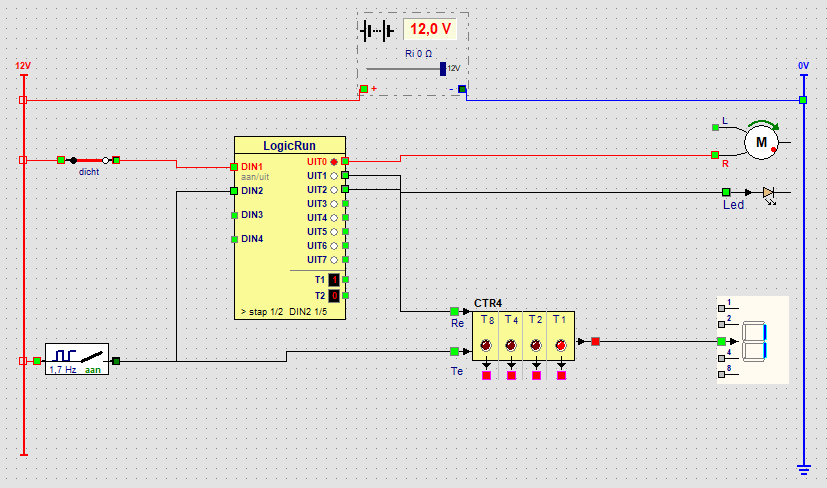
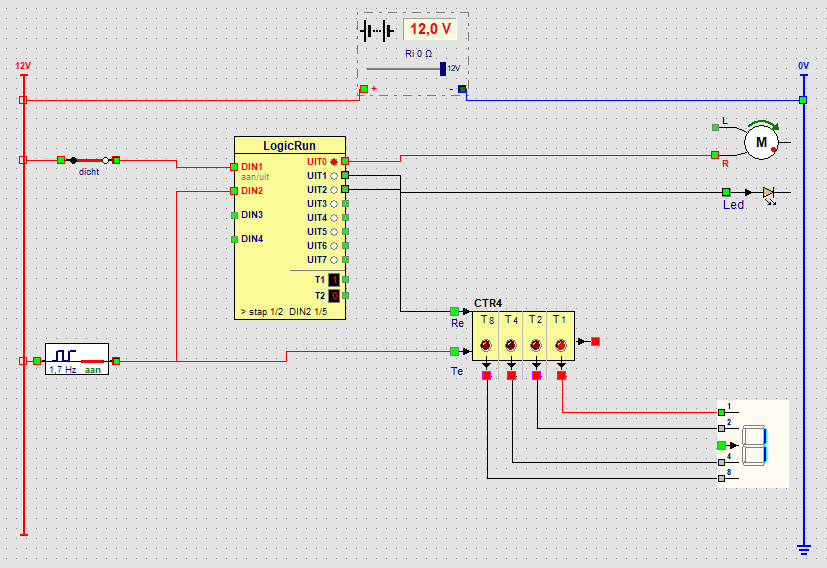
Les 14-15: display over vier draden (1-2-4-8)
- Les 14: teller T8, T4, T2, T1 naar de ingangen 8, 4, 2, 1 van het display.
- Les 15: UIT0..UIT3 ook naar de ingangen 1, 2, 4, 8 van het display (niet meer via T1).
- Help in 4 talen en afbeeldingen bijgewerkt.

diff --git a/projects/LogicCEF/helpsrc/fr/les15.html b/projects/LogicCEF/helpsrc/fr/les15.html
@@ -18,8 +18,8 @@
       pas 16 vaut 15. Chaque pas dure 1 seconde.</li>
     <li>Quatre <a href="uitvoer.html#led">LED</a> rouges sur <b>UIT0</b> à <b>UIT3</b>. Chaque LED a sa propre valeur&nbsp;:
       UIT0 = <b>1</b>, UIT1 = <b>2</b>, UIT2 = <b>4</b>, UIT3 = <b>8</b>.</li>
-    <li>Un <a href="uitvoer.html#display">afficheur</a> sur <b>T1</b>&nbsp;: il lit UIT0 à UIT3 comme un seul nombre (voir
-      <a href="logicrun.html#displays">Afficheurs</a>).</li>
+    <li>Un <a href="uitvoer.html#display">afficheur</a> avec quatre fils&nbsp;: UIT0, UIT1, UIT2 et UIT3 vont aussi aux entrées <b>1</b>, <b>2</b>,
+      <b>4</b> et <b>8</b> de l&rsquo;afficheur. Il lit les quatre sorties comme un seul nombre.</li>
   </ul>
 
   <h2>Comment fonctionne un nombre binaire ?</h2>

diff --git a/projects/LogicCEF/helpsrc/de/les15.html b/projects/LogicCEF/helpsrc/de/les15.html
@@ -17,8 +17,8 @@
       Schritt 16 ist 15. Jeder Schritt dauert 1 Sekunde.</li>
     <li>Vier rote <a href="uitvoer.html#led">LEDs</a> an <b>UIT0</b> bis <b>UIT3</b>. Jede LED hat ihren eigenen Wert:
       UIT0 = <b>1</b>, UIT1 = <b>2</b>, UIT2 = <b>4</b>, UIT3 = <b>8</b>.</li>
-    <li>Eine <a href="uitvoer.html#display">Anzeige</a> an <b>T1</b>: Sie liest UIT0 bis UIT3 als eine Zahl (siehe
-      <a href="logicrun.html#displays">Anzeigen</a>).</li>
+    <li>Eine <a href="uitvoer.html#display">Anzeige</a> mit vier Drähten: UIT0, UIT1, UIT2 und UIT3 gehen auch zu den Eingängen <b>1</b>, <b>2</b>,
+      <b>4</b> und <b>8</b> der Anzeige. Sie liest die vier Ausgänge als eine Zahl.</li>
   </ul>
 
   <h2>Wie funktioniert eine Binärzahl?</h2>

diff --git a/projects/LogicCEF/helpsrc/nl/les15.html b/projects/LogicCEF/helpsrc/nl/les15.html
@@ -17,8 +17,8 @@
       Elke stap duurt 1 seconde.</li>
     <li>Vier rode <a href="uitvoer.html#led">leds</a> op <b>UIT0</b> tot <b>UIT3</b>. Elke led heeft een eigen
       waarde: UIT0 = <b>1</b>, UIT1 = <b>2</b>, UIT2 = <b>4</b>, UIT3 = <b>8</b>.</li>
-    <li>Een <a href="uitvoer.html#display">display</a> aan <b>T1</b>: dat leest UIT0 tot UIT3 als één getal (zie
-      <a href="logicrun.html#displays">Displays</a>).</li>
+    <li>Een <a href="uitvoer.html#display">display</a> met vier draden: UIT0, UIT1, UIT2 en UIT3 gaan ook naar de ingangen <b>1</b>, <b>2</b>,
+      <b>4</b> en <b>8</b> van het display. Het leest de vier uitgangen als één getal.</li>
   </ul>
 
   <h2>Hoe werkt een binair getal?</h2>

diff --git a/projects/LogicCEF/helpsrc/en/les15.html b/projects/LogicCEF/helpsrc/en/les15.html
@@ -17,8 +17,8 @@
       Each step lasts 1 second.</li>
     <li>Four red <a href="uitvoer.html#led">LEDs</a> on <b>UIT0</b> to <b>UIT3</b>. Each LED has its own value:
       UIT0 = <b>1</b>, UIT1 = <b>2</b>, UIT2 = <b>4</b>, UIT3 = <b>8</b>.</li>
-    <li>A <a href="uitvoer.html#display">display</a> on <b>T1</b>: it reads UIT0 to UIT3 as one number (see
-      <a href="logicrun.html#displays">Displays</a>).</li>
+    <li>A <a href="uitvoer.html#display">display</a> with four wires: UIT0, UIT1, UIT2 and UIT3 also go to the inputs <b>1</b>, <b>2</b>,
+      <b>4</b> and <b>8</b> of the display. It reads the four outputs as one number.</li>
   </ul>
 
   <h2>How does a binary number work?</h2>

diff --git a/projects/LogicCEF/helpsrc/de/les14.html b/projects/LogicCEF/helpsrc/de/les14.html
@@ -20,7 +20,8 @@
       <b>UIT0</b> an <b>R</b> des <a href="uitvoer.html#motor">Motors</a> (das Förderband),
       <b>UIT1</b> an eine orange <a href="uitvoer.html#led">LED</a> (Verpacken) und
       <b>UIT2</b> an <b>Re</b> des Zählers (auf null setzen).</li>
-    <li>Der Zähler mit einer Anzeige, damit Sie sehen, wie viele Kartons es schon sind.</li>
+    <li>Der Zähler mit einer Anzeige, damit Sie sehen, wie viele Kartons es schon sind. Vier Drähte gehen von <b>T8</b>,
+      <b>T4</b>, <b>T2</b> und <b>T1</b> zu den Eingängen <b>8</b>, <b>4</b>, <b>2</b> und <b>1</b> der Anzeige.</li>
   </ul>
 
   <h2>Das Programm</h2>

diff --git a/projects/LogicCEF/helpsrc/fr/les14.html b/projects/LogicCEF/helpsrc/fr/les14.html
@@ -21,7 +21,8 @@
       <b>UIT0</b> vers <b>R</b> du <a href="uitvoer.html#motor">moteur</a> (le tapis roulant),
       <b>UIT1</b> vers une <a href="uitvoer.html#led">LED</a> orange (emballage) et
       <b>UIT2</b> vers <b>Re</b> du compteur (remise à zéro).</li>
-    <li>Le compteur avec un afficheur, pour voir combien de boîtes il y a.</li>
+    <li>Le compteur avec un afficheur, pour voir combien de boîtes il y a. Quatre fils vont de <b>T8</b>, <b>T4</b>,
+      <b>T2</b> et <b>T1</b> aux entrées <b>8</b>, <b>4</b>, <b>2</b> et <b>1</b> de l&rsquo;afficheur.</li>
   </ul>
 
   <h2>Le programme</h2>

diff --git a/projects/LogicCEF/helpsrc/nl/les14.html b/projects/LogicCEF/helpsrc/nl/les14.html
@@ -20,7 +20,8 @@
       <b>UIT0</b> naar <b>R</b> van de <a href="uitvoer.html#motor">motor</a> (de lopende band),
       <b>UIT1</b> naar een oranje <a href="uitvoer.html#led">led</a> (inpakken) en
       <b>UIT2</b> naar <b>Re</b> van de teller (op nul zetten).</li>
-    <li>De teller met een display, zodat je ziet hoeveel dozen er al zijn.</li>
+    <li>De teller met een display, zodat je ziet hoeveel dozen er al zijn. Vier draden gaan van <b>T8</b>, <b>T4</b>,
+      <b>T2</b> en <b>T1</b> naar de ingangen <b>8</b>, <b>4</b>, <b>2</b> en <b>1</b> van het display.</li>
   </ul>
 
   <h2>Het programma</h2>

diff --git a/projects/LogicCEF/helpsrc/en/les14.html b/projects/LogicCEF/helpsrc/en/les14.html
@@ -20,7 +20,8 @@
       <b>UIT0</b> to <b>R</b> of the <a href="uitvoer.html#motor">motor</a> (the conveyor belt),
       <b>UIT1</b> to an orange <a href="uitvoer.html#led">LED</a> (packing) and
       <b>UIT2</b> to <b>Re</b> of the counter (reset to zero).</li>
-    <li>The counter with a display, so you see how many boxes there are.</li>
+    <li>The counter with a display, so you see how many boxes there are. Four wires go from <b>T8</b>, <b>T4</b>,
+      <b>T2</b> and <b>T1</b> to the inputs <b>8</b>, <b>4</b>, <b>2</b> and <b>1</b> of the display.</li>
   </ul>
 
   <h2>The program</h2>
